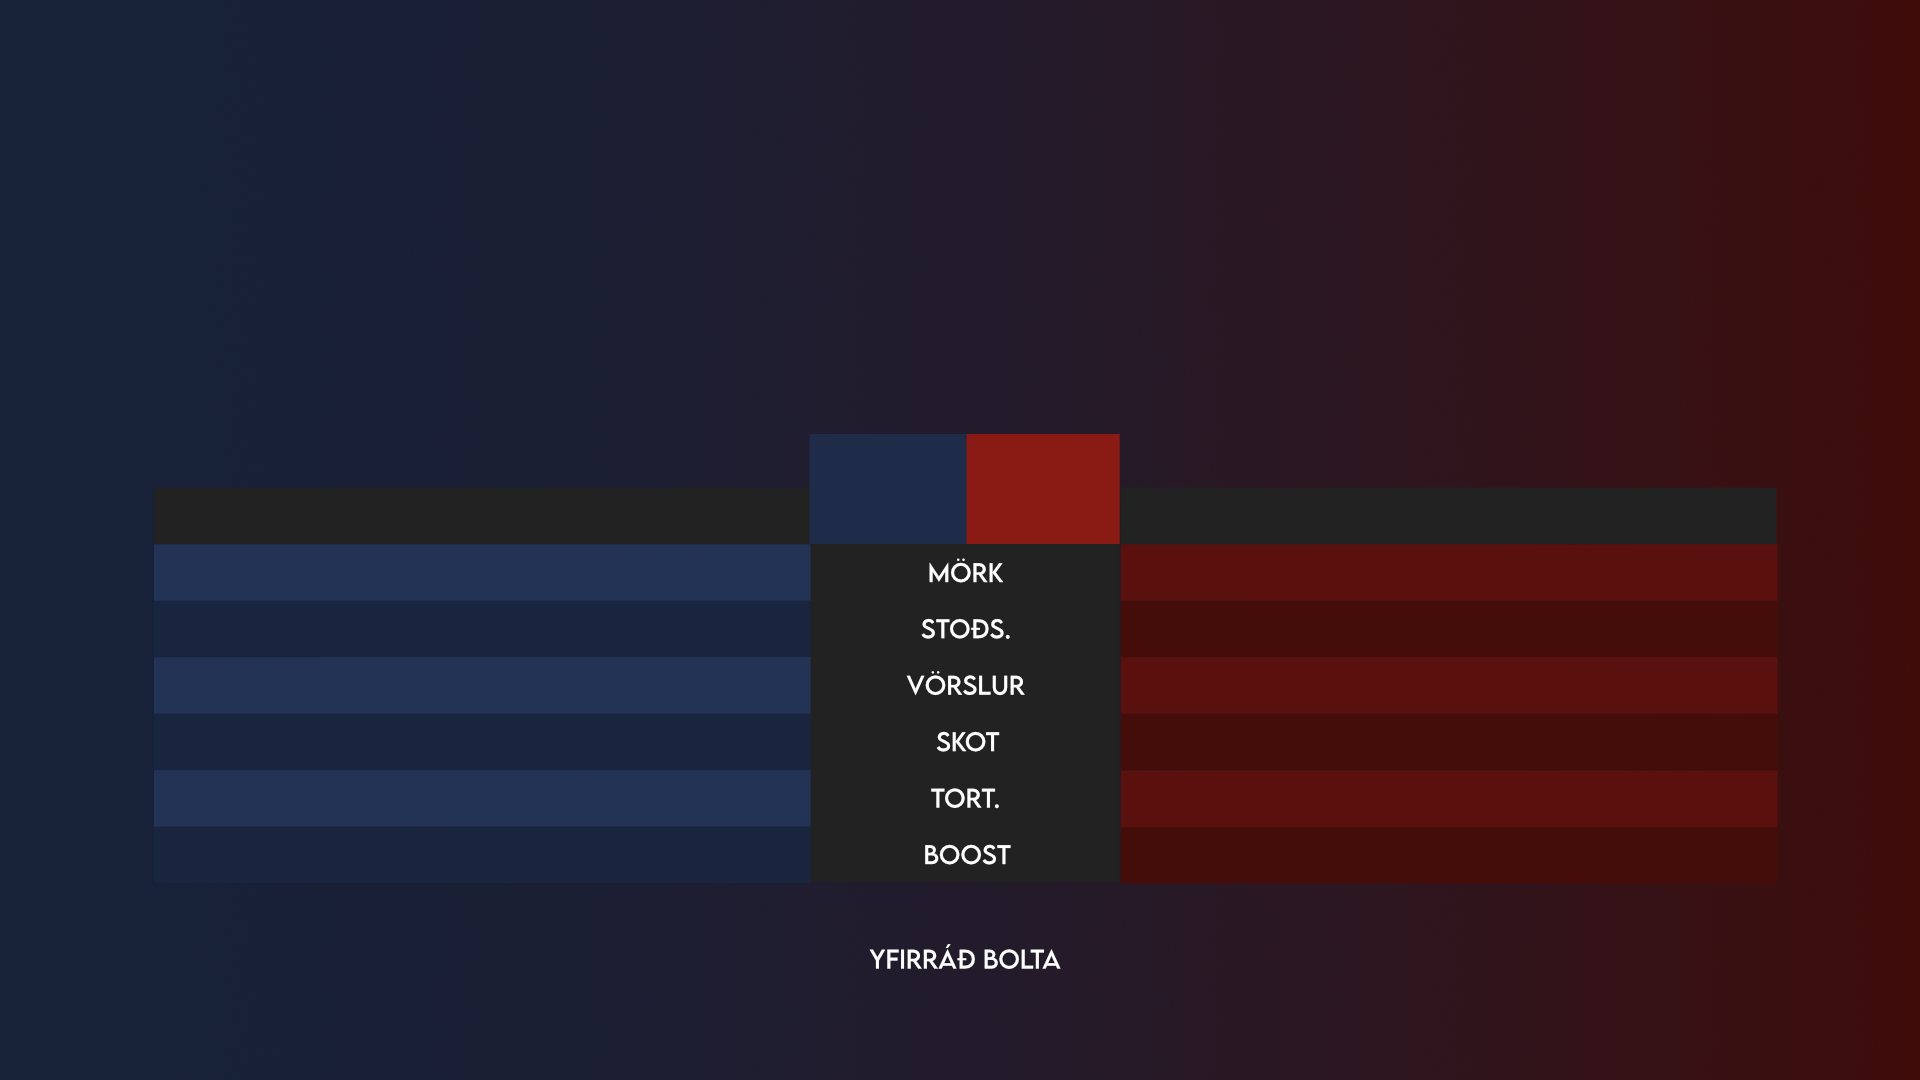
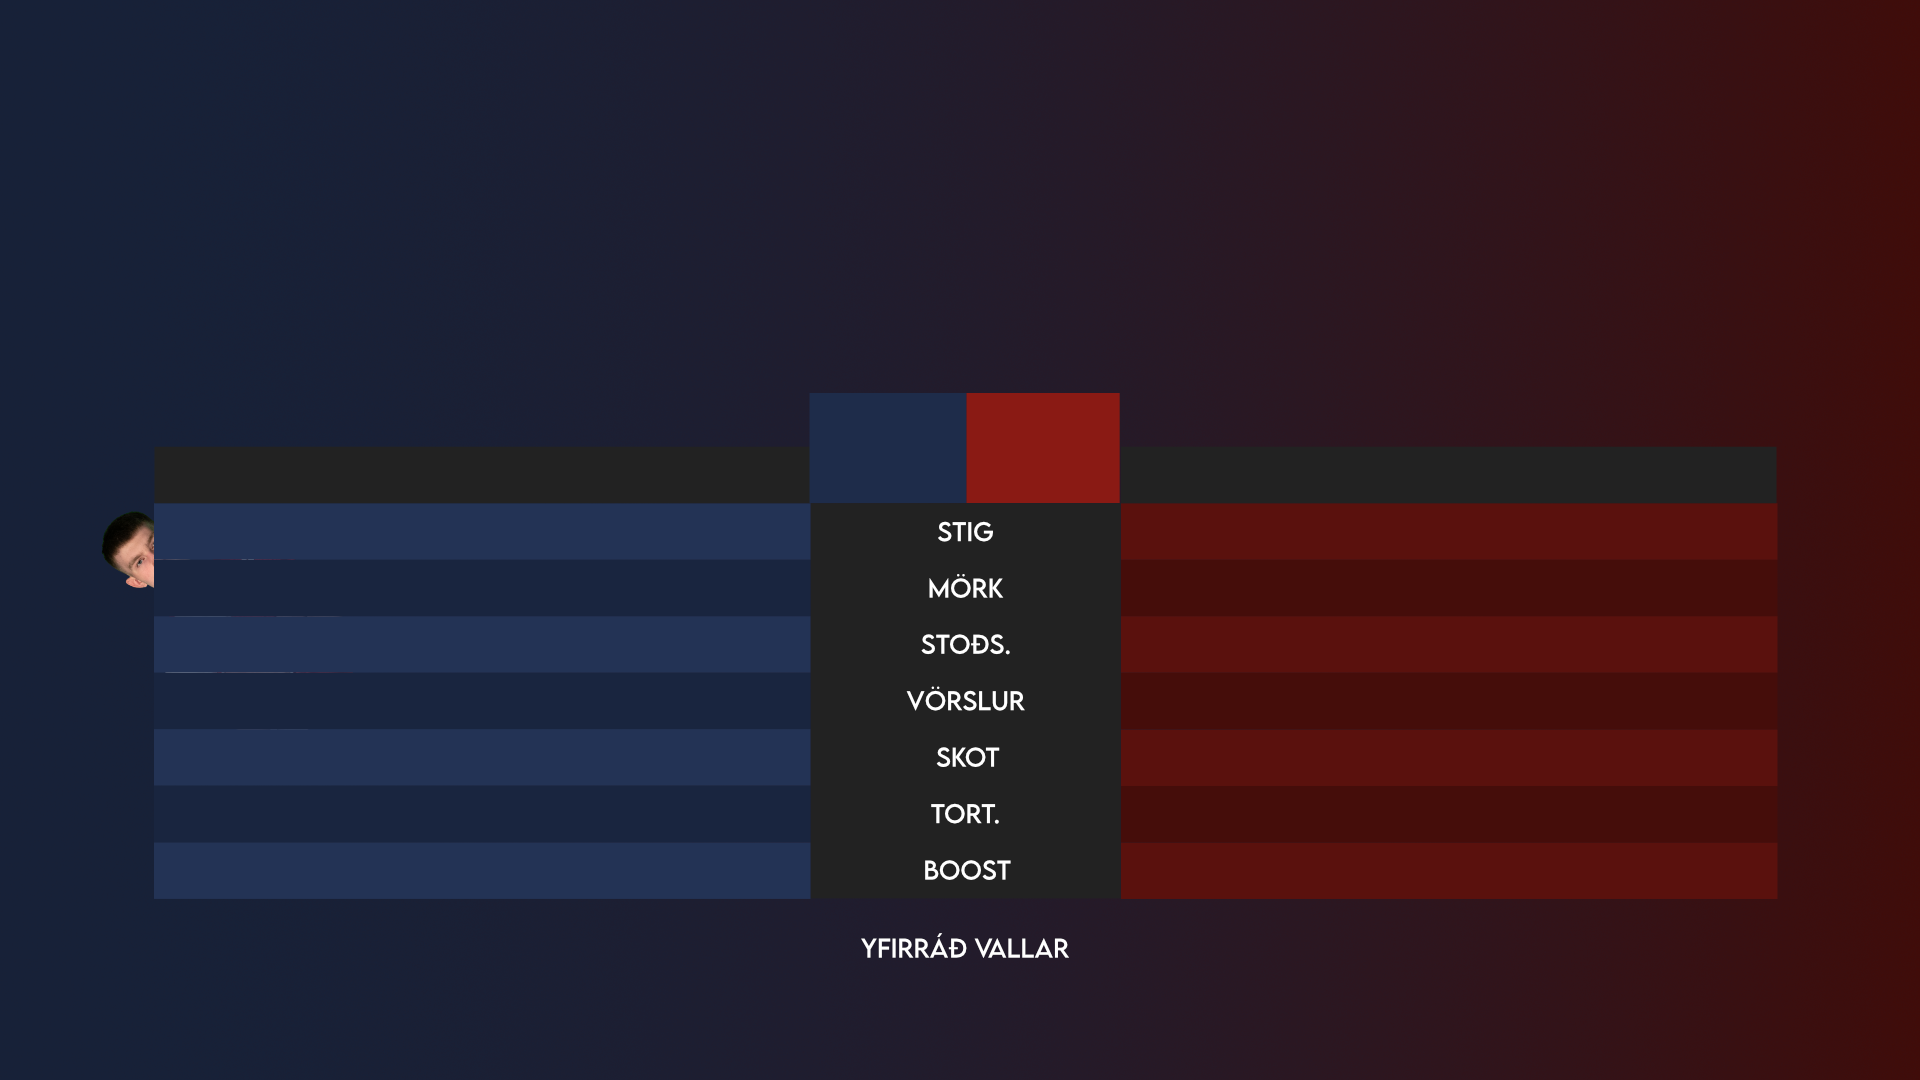
added score to scoreboard

diff --git a/src/components/PostGameScreen/PostGameScreen.js b/src/components/PostGameScreen/PostGameScreen.js
@@ -16,10 +16,12 @@ class PostGameScreen extends Component {
         redScore: 0,
         bluePossession: 0,
         redPossession: 0,
+        fieldDomination: [0,0],
 
         players: [
           {
             name: 'smushball',
+            score: 0,
             goals: 0,
             assists: 0,
             saves: 0,
@@ -28,6 +30,7 @@ class PostGameScreen extends Component {
             totalBoost: 0
           }, {
             name: 'emilvald',
+            score: 0,
             goals: 0,
             assists: 0,
             saves: 0,
@@ -36,6 +39,7 @@ class PostGameScreen extends Component {
             totalBoost: 0
           }, {
             name: 'paxole',
+            score: 0,
             goals: 0,
             assists: 0,
             saves: 0,
@@ -44,6 +48,7 @@ class PostGameScreen extends Component {
             totalBoost: 0
           }, {
             name: 'hemmigumm',
+            score: 0,
             goals: 0,
             assists: 0,
             saves: 0,
@@ -52,6 +57,7 @@ class PostGameScreen extends Component {
             totalBoost: 0
           }, {
             name: 'ousic',
+            score: 0,
             goals: 0,
             assists: 0,
             saves: 0,
@@ -60,6 +66,7 @@ class PostGameScreen extends Component {
             totalBoost: 0
           }, {
             name: 'steb',
+            score: 0,
             goals: 0,
             assists: 0,
             saves: 0,
@@ -92,6 +99,28 @@ class PostGameScreen extends Component {
       )
   }
 
+  blueScoreWidth = () => {
+    let total = 0
+    let blue = 0
+    for (let i = 0; i < 6; i++) {
+      total += this.state.scoreboard.players[i].score
+    }
+    for (let i = 0; i < 3; i++) {
+      blue += this.state.scoreboard.players[i].score
+    }
+    return total === 0 ? 154 : 308 * blue / total
+  }
+  redScoreWidth = () => {
+    let total = 0
+    let red = 0
+    for (let i = 0; i < 6; i++) {
+      total += this.state.scoreboard.players[i].score
+    }
+    for (let i = 3; i < 6; i++) {
+      red += this.state.scoreboard.players[i].score
+    }
+    return total === 0 ? 154 : 308 * red / total
+  }
   blueGoalWidth = () => {
     return this.state.scoreboard.blueScore + this.state.scoreboard.redScore === 0
       ? 154
@@ -212,14 +241,26 @@ class PostGameScreen extends Component {
     }
     return total === 0 ? 154 : 308 * red / total
   }
+
   bluePossessionWidth = () => {
-    let total = this.state.scoreboard.bluePossession + this.state.scoreboard.bluePossession
+    let total = this.state.scoreboard.bluePossession + this.state.scoreboard.redPossession
     let blue = this.state.scoreboard.bluePossession
     return total === 0 ? 258 : 516 * blue / total
   }
   redPossessionWidth = () => {
-    let total = this.state.scoreboard.bluePossession + this.state.scoreboard.bluePossession
+    let total = this.state.scoreboard.bluePossession + this.state.scoreboard.redPossession
     let red = this.state.scoreboard.redPossession
+    return total === 0 ? 258 : 516 * red / total
+  }
+
+  blueFieldDominationWidth = () => {
+    let total = this.state.scoreboard.fieldDomination[0] + this.state.scoreboard.fieldDomination[1]
+    let blue = this.state.scoreboard.fieldDomination[0]
+    return total === 0 ? 258 : 516 * blue / total
+  }
+  redFieldDominationWidth = () => {
+    let total = this.state.scoreboard.fieldDomination[0] + this.state.scoreboard.fieldDomination[1]
+    let red = this.state.scoreboard.fieldDomination[1]
     return total === 0 ? 258 : 516 * red / total
   }
 
@@ -249,6 +290,11 @@ class PostGameScreen extends Component {
               <p>{this.state.scoreboard.players[0].name}</p>
               <p>{this.state.scoreboard.players[1].name}</p>
               <p>{this.state.scoreboard.players[2].name}</p>
+            </div>
+            <div className={styles.PlayerRow}>
+              <p>{this.state.scoreboard.players[0].score}</p>
+              <p>{this.state.scoreboard.players[1].score}</p>
+              <p>{this.state.scoreboard.players[2].score}</p>
             </div>
             <div className={styles.PlayerRow}>
               <p>{this.state.scoreboard.players[0].goals}</p>
@@ -286,6 +332,11 @@ class PostGameScreen extends Component {
             <div className={styles.Score}>
               <p>{this.state.scoreboard.blueScore}</p>
               <p>{this.state.scoreboard.redScore}</p>
+            </div>
+            <div className={styles.RecRatio}>
+              <div className={styles.BlueRec} style={{ width: `${this.blueScoreWidth()}px` }}></div>
+              <div className={styles.WhiteBox}></div>
+              <div className={styles.RedRec} style={{ width: `${this.redScoreWidth()}px` }}></div>
             </div>
             <div className={styles.RecRatio}>
               <div className={styles.BlueRec} style={{ width: `${this.blueGoalWidth()}px` }}></div>
@@ -331,6 +382,11 @@ class PostGameScreen extends Component {
               <p>{this.state.scoreboard.players[5].name}</p>
             </div>
             <div className={styles.PlayerRow}>
+              <p>{this.state.scoreboard.players[3].score}</p>
+              <p>{this.state.scoreboard.players[4].score}</p>
+              <p>{this.state.scoreboard.players[5].score}</p>
+            </div>
+            <div className={styles.PlayerRow}>
               <p>{this.state.scoreboard.players[3].goals}</p>
               <p>{this.state.scoreboard.players[4].goals}</p>
               <p>{this.state.scoreboard.players[5].goals}</p>
@@ -364,9 +420,9 @@ class PostGameScreen extends Component {
         </div>
         <div className={styles.PossessionContainer}>
           <div className={styles.PossessionRatio}>
-            <div className={styles.BluePossessionRec} style={{ width: `${this.bluePossessionWidth()}px` }}></div>
+            <div className={styles.BluePossessionRec} style={{ width: `${this.blueFieldDominationWidth()}px` }}></div>
             <div className={styles.WhiteBox}></div>
-            <div className={styles.RedPossessionRec} style={{ width: `${this.redPossessionWidth()}px` }}></div>
+            <div className={styles.RedPossessionRec} style={{ width: `${this.redFieldDominationWidth()}px` }}></div>
           </div>
         </div>
       </div>

diff --git a/src/components/StreamInterface/StreamInterface.js b/src/components/StreamInterface/StreamInterface.js
@@ -215,6 +215,8 @@ class StreamInterface extends Component {
         }
       ],
 
+      fieldDomination: [0, 0],
+
       match_guid: '',
     };
 
@@ -445,6 +447,19 @@ class StreamInterface extends Component {
           if (this.state.orangePlayer3.boost > orangePlayers[2]['boost']) { orangePlayer3BoostUsed += this.state.orangePlayer3.boost - orangePlayers[2]['boost'] }
         }
 
+        let fieldDomination = [...this.state.fieldDomination];
+        if (game.winner === "" && game.ball.location.Y < 0 && !game.isReplay) {
+          fieldDomination[0] += 1;
+          this.setState({
+            fieldDomination: fieldDomination
+          });
+        } else if (game.winner === "" && game.ball.location.Y > 0 && !game.isReplay) {
+          fieldDomination[1] += 1;
+          this.setState({
+            fieldDomination: fieldDomination
+          });
+        }
+
         this.setState({
           bluePlayer1: {
             id: bluePlayers[0]['id'],
@@ -552,6 +567,8 @@ class StreamInterface extends Component {
           time_seconds: game.time_seconds,
         });
       }
+
+
     });
 
     this.WsSubscribers.subscribe("game", "match_ended", (d) => {
@@ -925,6 +942,7 @@ class StreamInterface extends Component {
   }
 
   saveScoreboard = () => {
+    let gameinfo = {};
     let players = [
       this.state.bluePlayer1,
       this.state.bluePlayer2,
@@ -933,6 +951,9 @@ class StreamInterface extends Component {
       this.state.orangePlayer2,
       this.state.orangePlayer3,
     ];
+    gameinfo.players = players;
+    gameinfo.fieldDomination = [...this.state.fieldDomination];
+
     let ts = new Date();
     console.log(ts.toISOString().split('.')[0].replace(/:/g, ''))
     console.log('saving scoreboard')
@@ -941,7 +962,7 @@ class StreamInterface extends Component {
       headers: {
         'Content-Type': 'application/json',
       },
-      body: JSON.stringify(players)
+      body: JSON.stringify(gameinfo)
     })
 
     // Clean up work

diff --git a/src/App.js b/src/App.js
@@ -20,6 +20,8 @@ import Polling from './components/Polling/Polling';
 import PostGameScreen from './components/PostGameScreen/PostGameScreen';
 import DoubleElim from './components/DoubleElim/DoubleElim';
 import DoubleElimEdit from './components/DoubleElim/DoubleElimEdit';
+import TeamOneLogo from './components/TeamLogos/TeamOneLogo';
+import TeamTwoLogo from './components/TeamLogos/TeamTwoLogo';
 
 
 function App() {
@@ -43,6 +45,9 @@ function App() {
         <Route path="/current-standing-edit" exact component={CurrentStandingEdit} />
         <Route path="/finals-bracket" exact component={FinalsBracket} />
         <Route path="/finals-bracket-edit" exact component={FinalsBracketEdit} />
+
+        <Route path="/team-one-logo" exact component={TeamOneLogo} />
+        <Route path="/team-two-logo" exact component={TeamTwoLogo} />
 
         <Route path="/double-elim" exact component={DoubleElim} />
         <Route path="/double-elim-edit" exact component={DoubleElimEdit} />

diff --git a/src/components/TeamLogos/TeamOneLogo.js b/src/components/TeamLogos/TeamOneLogo.js
@@ -1,0 +1,42 @@
+import React, {Component} from 'react';
+
+class TeamOneLogo extends Component {
+
+  constructor(props){
+    super(props);
+    
+    this.state = {
+      logo: ''
+    };
+  };
+
+  componentDidMount() {
+    setInterval(() => {
+      fetch(`http://${process.env.REACT_APP_HOST_IP}:3002/team-one-logo`)
+        .then(res => res.json())
+        .then(
+          (result) => {
+            this.setState({
+              logo: result
+            });
+          },
+          // Note: it's important to handle errors here
+          // instead of a catch() block so that we don't swallow
+          // exceptions from actual bugs in components.
+          (error) => {
+            
+          }
+        )
+    }, 500);
+  }
+
+  render(){
+    return (
+      <div>
+        <img src={`http://${process.env.REACT_APP_HOST_IP}:3002/images/teamlogos/`+this.state.logo}></img>
+      </div>
+    );
+  }
+}
+
+export default TeamOneLogo;

diff --git a/src/components/TeamLogos/TeamTwoLogo.js b/src/components/TeamLogos/TeamTwoLogo.js
@@ -1,0 +1,42 @@
+import React, { Component } from 'react';
+
+class TeamOneLogo extends Component {
+
+  constructor(props) {
+    super(props);
+
+    this.state = {
+      logo: ''
+    };
+  };
+
+  componentDidMount() {
+    setInterval(() => {
+      fetch(`http://${process.env.REACT_APP_HOST_IP}:3002/team-two-logo`)
+        .then(res => res.json())
+        .then(
+          (result) => {
+            this.setState({
+              logo: result
+            });
+          },
+          // Note: it's important to handle errors here
+          // instead of a catch() block so that we don't swallow
+          // exceptions from actual bugs in components.
+          (error) => {
+
+          }
+        )
+    }, 500);
+  }
+
+  render() {
+    return (
+      <div>
+        <img src={`http://${process.env.REACT_APP_HOST_IP}:3002/images/teamlogos/` + this.state.logo}></img>
+      </div>
+    );
+  }
+}
+
+export default TeamOneLogo;

diff --git a/src/components/PostGameScreen/PostGameScreen.module.css b/src/components/PostGameScreen/PostGameScreen.module.css
@@ -22,12 +22,12 @@
 }
 
 .LeftLogo {
-  top: 118px;
+  top: 77px;
   left: 302px;
 }
 
 .RightLogo {
-  top: 118px;
+  top: 77px;
   left: 1267px;
 }
 
@@ -36,7 +36,7 @@
 }
 
 .LeftContainer{
-  margin-top: 201px;
+  margin-top: 160px;
   margin-left: 154px;
   width: 657px;
 }
@@ -46,7 +46,7 @@
 }
 
 .RightContainer{
-  margin-top: 201px;
+  margin-top: 160px;
   width: 657px;
 }
 
@@ -71,7 +71,7 @@
 
 .Score{
   width: 310px;
-  margin-top: 435px;
+  margin-top: 395px;
   display: flex;
   justify-content: center;
   font-size: 70px;
@@ -145,7 +145,7 @@
 }
 
 .PossessionRatio{
-  margin-top: 100px;
+  margin-top: 80px;
   display: flex;
   border: 1px solid #eeeeee;
 }

diff --git a/src/components/CurrentStanding/CurrentStanding.js b/src/components/CurrentStanding/CurrentStanding.js
@@ -1,5 +1,5 @@
 import React, { Component } from 'react';
-import styles from './CurrentStanding.module.css'
+import styles from './CurrentStanding1080.module.css'
 import 'bootstrap/dist/css/bootstrap.min.css';
 
 import { DragDropContext, Droppable } from 'react-beautiful-dnd'
